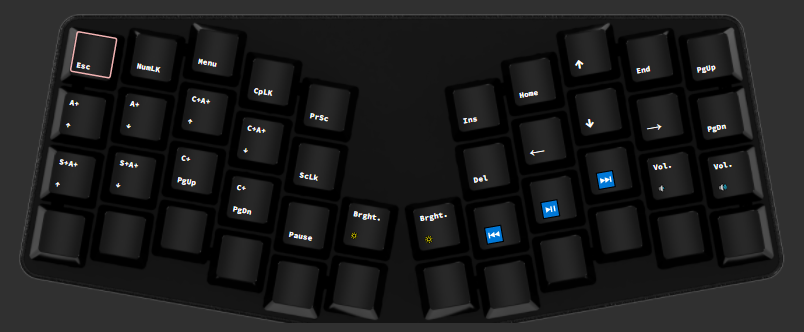
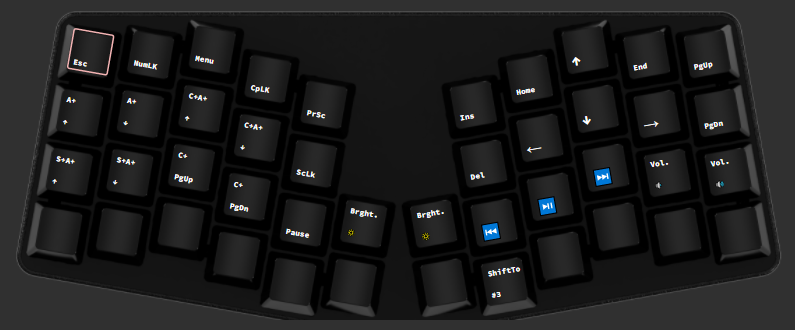
Update all the things - Rewrite readmes - Switch to genkey stats - Redo Atreus layers

diff --git a/Atreus/README.md b/Atreus/README.md
@@ -4,22 +4,41 @@ Since I use an Atreus keyboard, I have a custom setup for the rest of my keymap 
 
 The JSON config file for the Keyboard.io graphical configurator [Chrysalis](https://github.com/keyboardio/Chrysalis) is included [here](APT.json).
 
-## Base Layers
+## Goals
 
-The first layer is the APT layout, with some additional punctuation on the extra middle keys.
+- Provide easy access to modifiers without interfering with typing
+- Use symmetric mods so either hand can hold down mods as needed to press a key on the other hand
+- Put layer keys on thumbs so layers + mods are still usable on either hand
+- Make it easy to access any printing character by only holding at most one other key
+    - For base layer, shift can be held
+    - For num layer, the shifted syms have dedicated key spots, so only the layer key needs to be held
+- Add a bunch of miscellaneous keys and useful shortcuts
+    - These are put in the nav layer since there's a lot of extra room
+
+## Base
+
+The base layer is the APT layout, with some additional punctuation on the extra middle keys.
 
 ![APT](Layer1.png)
 
 Mods are symmetric in the bottom corners, and extra layers are dual-function on the thumb home keys.
 
----
+In addition, the remaining common base-layer symbols `-=[]` live on the right-hand mods, giving easier access to them without removing mod symmetry and hand alternation.
 
-Next is the navigation and shortcut layer, and is also where `Escape`, `Caps Lock`, `Menu`, `Print Screen`, `Scroll Lock`, `Pause`, and `Num Lock` live. The whole bottom row is passthrough.
+## Nav/Shortcuts
+
+In addition to navigation and shortcuts, this is also where `Escape`, `Caps Lock`, `Menu`, `Print Screen`, `Scroll Lock`, `Pause`, and `Num Lock` live. The whole bottom row is passthrough.
 
 ![Nav](Layer2.png)
 
----
+## Number/Symbol
 
-Last is the number and symbol layer. Function keys are setup here as well, along with the remaining symbol keys. Again the bottom row is passthrough.
+This layer is setup to make it easier to only have to hold one key and press one other
 
 ![Num](Layer3.png)
+
+## Function
+
+Lastly, just in case they're needed, the function keys are added to their own layer as well, and mods are still usable here with them.
+
+![Num](Layer4.png)

diff --git a/README.md b/README.md
@@ -3,19 +3,42 @@
 This is an alternate keyboard layout initially based on the work done in [MTGAP][1] and [CTGAP][2] [[notes](#notes)].
 
 ```txt
-q c d l x  z y o u /
+q c d l x  z y o u ;
 r s t h k  p n e i a
 w g b m v  j f ' , .
 ```
 
-### ModDH
+My [Keyboard.io Atreus](https://keyboard.io/atreus) configs are in the [Atreus](Atreus) directory.
 
-[SteveP's ModDH Analyzer](https://colemakmods.github.io/mod-dh/analyze.html) in Matrix Simple mode.
 
-![ModDH Analyzer](ModDH.png)
-
+## Genkey
 ---
+
+[Semilin's Genkey analyzer](https://github.com/semilin/genkey) heatmap and stat breakdown, using top 500 trigrams for analysis.
+
+![Genkey](Genkey.png)
+
+```txt
+Rolls (l): 20.08%
+        Inward: ~17.05%
+        Outward: ~3.02%
+Rolls (r): 29.33%
+        Inward: ~18.94%
+        Outward: ~10.39%
+Alternates: ~37.75%
+Onehands: ~2.73%
+Redirects: ~3.82%
+Index Usage: 13.2% 13.2%
+SFBs: 0.849%
+DSFBs: 6.818%
+LSBs: 2.44%
+Top SFBs:
+        sc 0.138%       ny 0.119%       ui 0.107%       eo 0.078%
+        gs 0.061%       nf 0.060%       e' 0.048%       oe 0.044%
+```
+
 ## Notes
+---
 
 The CTGAP repo was taken offline. Layout for posterity is as follows:
 ```txt
